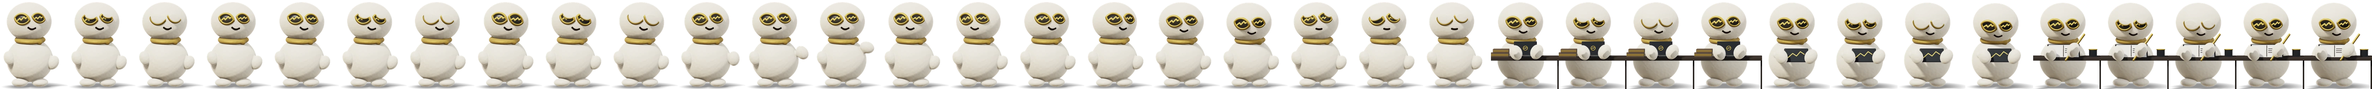
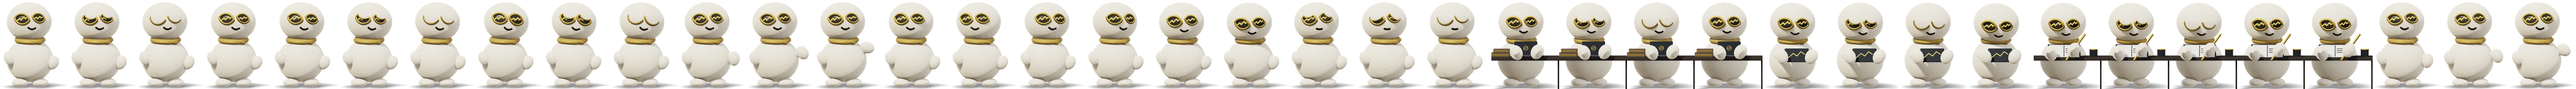
Scout: the wave is a wave, not a twitch
The owner said Milo twitched instead of waving. The arm had three positions, 30, 65 and 100 degrees, and the
wave cut straight between them: 35 degrees in 60 ms, about 580 deg/s, which at the welcome size is the hand
jumping roughly 18 px across and 36 px up with nothing in between. cbc877bc made it quicker last month, and
with three frames quicker only means snappier.

Measured before changing anything, so the fix went where the problem was: the frame percentages were all
correct, the scarf moves 0.23 CSS px per step on average (sub-pixel, not the culprit), and the figure element
is stable rather than being re-created mid-gesture.

arm-a, arm-b and arm-c are rendered in between, at 15, 47 and 82 degrees, taking the sheet to 38 frames. The
wave now climbs through all six positions and comes back down the same way: 15 steps over 931 ms, at most
360 deg/s, each step about 17 degrees. ack and point get the same treatment.

The new test pins the property, not the timings: no step may move the arm more than 20 degrees or faster than
400 deg/s, and no gesture may end with the arm still up.

Frame count updated in the renderer, frames.json, scout.js and both stylesheets (3800%, and 2.7027% per frame
in the blink keyframe).

Full suite 8262 passed, 1 skipped.

diff --git a/static/v2/css/components.css b/static/v2/css/components.css
@@ -473,7 +473,7 @@ ul.plain { margin: 0; padding-left: 18px; } ul.plain li { margin-bottom: 7px; }
    its aspect ratio, so nothing moves when the sprite arrives. 2x and 3x sprites, chosen by the browser. */
 .scout { --scout-x: 0%; display: block; flex: none; position: relative; aspect-ratio: 288 / 380; }
 .scout::before, .scout::after { content: ""; position: absolute; inset: 0; background-repeat: no-repeat; background-position: 0 0; }
-.scout::after { background-size: 3500% 100%; background-position-x: var(--scout-x);
+.scout::after { background-size: 3800% 100%; background-position-x: var(--scout-x);
   background-image: url("/scout/scout-full@2x.webp");
   background-image: -webkit-image-set(url("/scout/scout-full@2x.webp") 2x, url("/scout/scout-full@3x.webp") 3x);
   background-image: image-set(url("/scout/scout-full@2x.webp") 2x, url("/scout/scout-full@3x.webp") 3x); }
@@ -495,15 +495,15 @@ ul.plain { margin: 0; padding-left: 18px; } ul.plain li { margin-bottom: 7px; }
 /* his head on the Ask Milo button, as on the classic one: the bust sprite clipped to a disc, blinking through the
    sprite's own lid frames twice in 11 s; still under reduced motion or with his motion set to Still */
 .scout-badge { position: relative; display: block; flex: none; width: 22px; height: 22px; border-radius: 50%; overflow: hidden; }
-.scout-badge-fig { position: absolute; left: -1.8%; top: 7.8%; width: 126.4%; height: 136.9%; background-repeat: no-repeat; background-size: 3500% 100%; background-position: 0% 0;
+.scout-badge-fig { position: absolute; left: -1.8%; top: 7.8%; width: 126.4%; height: 136.9%; background-repeat: no-repeat; background-size: 3800% 100%; background-position: 0% 0;
   background-image: url("/scout/scout-compact@2x.webp");
   background-image: -webkit-image-set(url("/scout/scout-compact@2x.webp") 2x, url("/scout/scout-compact@3x.webp") 3x);
   background-image: image-set(url("/scout/scout-compact@2x.webp") 2x, url("/scout/scout-compact@3x.webp") 3x);
   animation: scout-badge-blink 11s step-end infinite; }
 @keyframes scout-badge-blink {
-  0% { background-position-x: 0%; } 36% { background-position-x: 2.9412%; } 36.32% { background-position-x: 5.8824%; } 36.77% { background-position-x: 2.9412%; } 37.13% { background-position-x: 0%; }
-  93% { background-position-x: 2.9412%; } 93.32% { background-position-x: 5.8824%; } 93.77% { background-position-x: 2.9412%; } 94.13% { background-position-x: 0%; }
-  95.22% { background-position-x: 2.9412%; } 95.54% { background-position-x: 5.8824%; } 95.99% { background-position-x: 2.9412%; } 96.35% { background-position-x: 0%; } 100% { background-position-x: 0%; } }
+  0% { background-position-x: 0%; } 36% { background-position-x: 2.7027%; } 36.32% { background-position-x: 5.4054%; } 36.77% { background-position-x: 2.7027%; } 37.13% { background-position-x: 0%; }
+  93% { background-position-x: 2.7027%; } 93.32% { background-position-x: 5.4054%; } 93.77% { background-position-x: 2.7027%; } 94.13% { background-position-x: 0%; }
+  95.22% { background-position-x: 2.7027%; } 95.54% { background-position-x: 5.4054%; } 95.99% { background-position-x: 2.7027%; } 96.35% { background-position-x: 0%; } 100% { background-position-x: 0%; } }
 :root[data-scout-motion="still"] .scout-badge-fig, :root[data-motion="reduce"] .scout-badge-fig { animation: none; }
 @media (prefers-reduced-motion: reduce) { .scout-badge-fig { animation: none; } }
 /* the welcome: the whole figure above the question, a button that opens his guide menu (no fill, no hover pill;

diff --git a/static/components/scout.js b/static/components/scout.js
@@ -64,8 +64,10 @@
     'desk': 22, 'desk-half': 23, 'desk-closed': 24, 'desk-type': 25,
     'tablet': 26, 'tablet-half': 27, 'tablet-closed': 28, 'tablet-near': 29,
     'write': 30, 'write-half': 31, 'write-closed': 32, 'write-1': 33, 'write-2': 34,
+    /* In-between arm positions, so the wave is a wave: see GESTURE below. */
+    'arm-a': 35, 'arm-b': 36, 'arm-c': 37,
   };
-  var COUNT = 35;
+  var COUNT = 38;
 
   /* How far over the head is, so a change of pose walks through the frames
    * in between instead of jumping: upright, leaning, tilted, curious. */
@@ -95,17 +97,27 @@
   };
   var WORK = { desk: 1, tablet: 1, write: 1 };
 
-  /* Gestures, as [frame, ms]. Short on purpose. */
+  /* Gestures, as [frame, ms].
+   *
+   * The arm has seven positions, not three: arm-a, arm-1, arm-b, arm-2, arm-c, arm-3 climb 15, 30, 47, 65,
+   * 82 and 100 degrees from the shoulder. Until 2026-11-03 the wave used only arm-1, arm-2 and arm-3 and cut
+   * between them, so the hand crossed 35 degrees in 60 ms, about 580 deg/s, and at the welcome size it
+   * jumped roughly 18 px across and 36 px up with nothing in between. It read as a twitch, which is what the
+   * owner called it. Every step is now about 17 degrees over 50 ms, near 300 deg/s, which is where a wave
+   * actually sits. */
   var GESTURE = {
-    wave: [['arm-1', 60], ['arm-2', 60], ['arm-3', 130], ['arm-2', 80], ['arm-3', 130],
-      ['arm-2', 75], ['arm-1', 60]],
-    ack: [['arm-1', 55], ['arm-2', 105], ['arm-1', 55]],
+    wave: [['arm-a', 50], ['arm-1', 50], ['arm-b', 52], ['arm-2', 52], ['arm-c', 55], ['arm-3', 120],
+      ['arm-c', 60], ['arm-2', 70], ['arm-c', 60], ['arm-3', 110],
+      ['arm-c', 55], ['arm-2', 52], ['arm-b', 50], ['arm-1', 50], ['arm-a', 45]],
+    ack: [['arm-a', 50], ['arm-1', 52], ['arm-b', 55], ['arm-2', 110], ['arm-b', 55], ['arm-1', 52],
+      ['arm-a', 48]],
     nod: [['nod-1', 90], ['nod-2', 170], ['nod-1', 90]],
     look: [['look-l1', 120], ['look-l2', 520], ['look-l1', 110], ['lean', 90],
       ['look-r1', 120], ['look-r2', 520], ['look-r1', 110], ['lean', 90]],
     curious: [['curious', 1300], ['curious-half', 40], ['curious-closed', 50],
       ['curious-half', 40], ['curious', 280]],
-    point: [['arm-1', 80], ['arm-2', 950], ['arm-1', 80]],
+    point: [['arm-a', 50], ['arm-1', 52], ['arm-b', 55], ['arm-2', 900], ['arm-b', 55], ['arm-1', 52],
+      ['arm-a', 48]],
     bob: [['lean', 260]],
     /* The small motion each worked pose loops on: hands moving over the keys,
      * a look down at the tablet, the pencil travelling across the page. */

diff --git a/static/styles.css b/static/styles.css
@@ -19677,7 +19677,7 @@ footer.legal > .legal-full {
   background-position: 0 0;
 }
 .scout::after {
-  background-size: 3500% 100%;
+  background-size: 3800% 100%;
   background-position-x: var(--scout-x);
   background-image: url("scout/scout-full@2x.webp");
   background-image: -webkit-image-set(url("scout/scout-full@2x.webp") 2x, url("scout/scout-full@3x.webp") 3x);
@@ -19735,7 +19735,7 @@ footer.legal > .legal-full {
   width: 126.4%;
   height: 136.9%;
   background-repeat: no-repeat;
-  background-size: 3500% 100%;
+  background-size: 3800% 100%;
   background-position: 0% 0;
   background-image: url("scout/scout-compact@2x.webp");
   background-image: -webkit-image-set(url("scout/scout-compact@2x.webp") 2x, url("scout/scout-compact@3x.webp") 3x);
@@ -19745,17 +19745,17 @@ footer.legal > .legal-full {
 /* 1% of 11 s is 110 ms: half 35 ms, closed 50 ms, half 40 ms. */
 @keyframes scout-badge-blink {
   0%      { background-position-x: 0%; }
-  36%     { background-position-x: 2.9412%; }
-  36.32%  { background-position-x: 5.8824%; }
-  36.77%  { background-position-x: 2.9412%; }
+  36%     { background-position-x: 2.7027%; }
+  36.32%  { background-position-x: 5.4054%; }
+  36.77%  { background-position-x: 2.7027%; }
   37.13%  { background-position-x: 0%; }
-  93%     { background-position-x: 2.9412%; }
-  93.32%  { background-position-x: 5.8824%; }
-  93.77%  { background-position-x: 2.9412%; }
+  93%     { background-position-x: 2.7027%; }
+  93.32%  { background-position-x: 5.4054%; }
+  93.77%  { background-position-x: 2.7027%; }
   94.13%  { background-position-x: 0%; }
-  95.22%  { background-position-x: 2.9412%; }
-  95.54%  { background-position-x: 5.8824%; }
-  95.99%  { background-position-x: 2.9412%; }
+  95.22%  { background-position-x: 2.7027%; }
+  95.54%  { background-position-x: 5.4054%; }
+  95.99%  { background-position-x: 2.7027%; }
   96.35%  { background-position-x: 0%; }
   100%    { background-position-x: 0%; }
 }

diff --git a/tests/test_pulse_scout.py b/tests/test_pulse_scout.py
@@ -292,3 +292,29 @@ def test_he_blinks_and_waves_more_often():
     assert "var WAVE_GAP_MS = 20000;" in SCOUT
     assert "full && self.state === 'idle' && self.slot === 'welcome'" in sched
     assert "self.gesture('wave');" in sched
+
+
+def test_the_wave_is_a_wave_and_not_a_twitch():
+    """The owner called it a twitch (2026-11-03), and it was: the arm had three positions, 30, 65 and 100
+    degrees, and the wave cut between them, crossing 35 degrees in 60 ms. At the welcome size the hand jumped
+    about 18 px across and 36 px up with nothing in between. The in-between frames arm-a, arm-b and arm-c
+    halve every step. This pins the property, not the exact numbers: no single step may move the arm more
+    than 20 degrees, and none may do it faster than 400 deg/s."""
+    angle = {"arm-a": 15, "arm-1": 30, "arm-b": 47, "arm-2": 65, "arm-c": 82, "arm-3": 100}
+    for name in angle:
+        assert name in FRAMES, name
+    table = SCOUT[SCOUT.index("var GESTURE = {"):SCOUT.index("var GESTURE_FROM")]
+    for gesture in ("wave", "ack", "point"):
+        body = table[table.index(gesture + ": ["):]
+        body = body[:body.index("]],") + 2]
+        steps = re.findall(r"\['([a-z0-9-]+)', (\d+)\]", body)
+        assert steps, gesture
+        at = 0
+        for frame, ms in steps:
+            assert frame in angle, (gesture, frame)   # every gesture frame is one of the arm's positions
+            move, ms = abs(angle[frame] - at), int(ms)
+            assert move <= 20, "%s: %s moves the arm %d degrees in one cut" % (gesture, frame, move)
+            assert move / ms * 1000 <= 400, "%s: %s travels %.0f deg/s" % (gesture, frame, move / ms * 1000)
+            at = angle[frame]
+        # and it comes back down rather than snapping home from the top
+        assert angle[steps[-1][0]] <= 20, "%s ends with the arm still up" % gesture

diff --git a/optic-brand/scout/render_scout.py b/optic-brand/scout/render_scout.py
@@ -702,6 +702,10 @@ FRAMES = [
     ("write-closed", dict(prop="write", tilt=2, pitch=15, cl=1.0, cr=1.0)),
     ("write-1", dict(prop="write", tilt=2, pitch=15, pen=0.5)),
     ("write-2", dict(prop="write", tilt=2, pitch=15, pen=1.0)),
+    # In-between arm positions, added 2026-11-03. The wave had only arm-1, arm-2 and arm-3 (30, 65 and 100
+    # degrees) and cut between them, so the hand jumped 35 degrees at a time, about 580 deg/s at the fast
+    # steps: it read as a twitch rather than a wave. These halve every step.
+    ("arm-a", dict(wave=15)), ("arm-b", dict(wave=47)), ("arm-c", dict(wave=82)),
 ]
 # (window in world units, size at 3x). The 2x sprite is the 3x one resampled,
 # never an upscale: the largest use is the welcome figure at 96 CSS px wide.

diff --git a/docs/milo/MILO_ANIMATION_CHANGELOG.md b/docs/milo/MILO_ANIMATION_CHANGELOG.md
@@ -1,5 +1,32 @@
 # Milo animation changelog
 
+## 2026-11-03 (third pass) — the wave is a wave
+
+The owner said Milo twitched instead of waving. He was right, and it was not the new work: the arm had three
+positions (`arm-1`, `arm-2`, `arm-3`, at 30, 65 and 100 degrees) and the wave cut straight between them,
+crossing 35 degrees in 60 ms, about 580 deg/s. At the welcome size the hand jumped roughly 18 px across and
+36 px up with nothing in between. `cbc877bc` (2026-10-11, "a quicker wave and blink") had shortened it, and
+with only three frames quicker just means snappier.
+
+Ruled out first, by measurement rather than by eye: the sprite positioning (every frame percentage was
+correct), the scarf (its 12 phases move the tail 0.23 CSS px per step on average, max 0.43, which is
+sub-pixel), and element churn (one figure element, stable across nine seconds).
+
+Three in-between frames were rendered, `arm-a`, `arm-b` and `arm-c` at 15, 47 and 82 degrees, taking the
+sheet to 38. `wave`, `ack` and `point` now climb through all six positions and come back down the same way:
+
+| | Before | After |
+| --- | --- | --- |
+| wave | 7 cuts, 595 ms, up to 583 deg/s | 15 steps, 931 ms, at most 360 deg/s |
+| ack | 3 cuts, 215 ms | 7 steps, 422 ms |
+| point | 3 cuts, 1110 ms | 7 steps, 1212 ms |
+
+`tests/test_pulse_scout.py::test_the_wave_is_a_wave_and_not_a_twitch` pins the property rather than the
+numbers: no step may move the arm more than 20 degrees or faster than 400 deg/s, and no gesture may end with
+the arm still up. Quickening it back into a twitch now fails the suite.
+
+Full suite 8262 passed, 1 skipped.
+
 ## 2026-11-03 (second pass) — the three worked poses, rendered
 
 Commit `8f1e06bb`.
@@ -8,7 +35,7 @@ The placeholders are gone. Researching, Analyzing and Writing are now frames of 
 
 Thirteen frames were added to the sprite sheet: `desk`, `desk-half`, `desk-closed`, `desk-type`, `tablet`,
 `tablet-half`, `tablet-closed`, `tablet-near`, `write`, `write-half`, `write-closed`, `write-1`, `write-2`.
-The sheet went from 22 frames to 35.
+The sheet went from 22 frames to 35, and to 38 with the wave frames below.
 
 | File | What |
 | --- | --- |
@@ -16,7 +43,7 @@ The sheet went from 22 frames to 35.
 | `static/scout/*.webp`, `frames.json` | re-rendered, 35 frames each |
 | `static/components/scout.js` | the new names in `FRAME`, `COUNT` 35, `FACE` entries so blinks work in every pose, `POSE` gains `researching`/`analyzing`/`writing`, the `type`/`read`/`pen` loops, and `pose()` keeps a worked pose at Still motion |
 | `static/v2/js/ui/milo-activity.js` | the three states point at the new poses and carry no drawn prop; the desk, tablet and notebook SVGs removed |
-| `static/v2/css/components.css` | `background-size: 3500%`, the blink keyframe step, the card figure 78 -> 104 px, the removed props' rules gone |
+| `static/v2/css/components.css` | `background-size: 3800%`, the blink keyframe step, the card figure 78 -> 104 px, the removed props' rules gone |
 | `static/styles.css` | the same two sprite figures, for the classic app |
 | `tests/test_milo_activity.py` | the props test became a check that what he works with is rendered and not drawn, plus the pose/frame contract |
 

diff --git a/docs/milo/MILO_CHARACTER_DESIGN.md b/docs/milo/MILO_CHARACTER_DESIGN.md
@@ -11,7 +11,7 @@ never be: every picture of him comes from the same rendered sprite sheets.
 | Piece | Path | What it is |
 | --- | --- | --- |
 | Driver | `static/components/scout.js` | `window.OpticScout`: poses, gestures, blinks, motion setting, sprite positioning |
-| Sheets | `static/scout/scout-{full,compact}@{2,3}x.webp` | 35 frames across one row, plus `-tail` sheets |
+| Sheets | `static/scout/scout-{full,compact}@{2,3}x.webp` | 38 frames across one row, plus `-tail` sheets |
 | Frame map | `static/scout/frames.json` | frame order and the per-frame pixel size of each sheet |
 | Renderer | `optic-brand/scout/render_scout.py` | the numpy SDF raymarcher the sheets are rendered from |
 | Loaded by | `static/v2/index.html:38` | a plain script tag, before the app |
@@ -22,7 +22,7 @@ chart symbol, gold scarf, small smile, soft 3D shading, minimal face. Optic blac
 Per-frame size: full `288x380` at 3x (`192x253` at 2x), compact `144x156` at 3x (`96x104` at 2x). 22 frames,
 one row, positioned with `--scout-x`.
 
-### The 35 frames
+### The 38 frames
 
 Standing, as they always were: `idle`, `idle-half`, `idle-closed`, `lean`, `tilt`, `tilt-half`,
 `tilt-closed`, `curious`, `curious-half`, `curious-closed`, `arm-1`, `arm-2`, `arm-3`, `look-l1`, `look-l2`,
@@ -31,6 +31,12 @@ Standing, as they always were: `idle`, `idle-half`, `idle-closed`, `lean`, `tilt
 Added 2026-11-03 for the activity states, appended and never inserted: `desk`, `desk-half`, `desk-closed`,
 `desk-type`, `tablet`, `tablet-half`, `tablet-closed`, `tablet-near`, `write`, `write-half`, `write-closed`,
 `write-1`, `write-2`.
+
+Added the same day, after the owner said the wave read as a twitch: `arm-a`, `arm-b`, `arm-c`, the in-between
+arm positions at 15, 47 and 82 degrees. With only `arm-1`, `arm-2` and `arm-3` the wave crossed 35 degrees in
+60 ms (about 580 deg/s) with nothing between, and the hand jumped roughly 18 px across and 36 px up at the
+welcome size. Every step is now about 17 degrees over 50 ms, near 300 deg/s. The `wave`, `ack` and `point`
+gestures in `scout.js` all use them.
 
 Each resting pose carries its own half-closed and closed lid, so a blink never changes the pose it happens
 in, and the three new ones are no exception. A pose change walks the ladder `idle -> lean -> tilt -> curious`
@@ -97,7 +103,7 @@ Three things had to be true and are checked in the renders:
 Follow the same path. Add frames to the **end** of `FRAMES` in `render_scout.py`, give the resting pose its
 own `-half` and `-closed` lids, add the names to `FRAME` in `scout.js` with their indices, raise `COUNT`, add
 a `FACE` entry, add a `POSE` name, and leave `LEVEL` alone so the change is a cut. Then re-render, and update
-the two places in CSS that carry the frame count: `background-size: 3500% 100%` (in `static/styles.css` and
+the two places in CSS that carry the frame count: `background-size: 3800% 100%` (in `static/styles.css` and
 `static/v2/css/components.css`) and the per-frame step in `@keyframes scout-badge-blink`, which is
 `100 / (frames - 1)` per frame. `tests/test_pulse_scout.py` checks all of that against `frames.json`.
 

diff --git a/docs/milo/MILO_VISUAL_QA.md b/docs/milo/MILO_VISUAL_QA.md
@@ -84,7 +84,7 @@ are now rendered frames of the character himself. Re-checked after the render:
 
 | Check | Result |
 | --- | --- |
-| The sheet | 35 frames, `scout-full@3x.webp` 10080 x 380 and `scout-compact@3x.webp` 5040 x 156, both exactly `frame x 35` |
+| The sheet | 38 frames, `scout-full@3x.webp` 10944 x 380 and `scout-compact@3x.webp` 5472 x 156, both exactly `frame x 38` |
 | The standing frames | unchanged: `props()` builds nothing for a pose with no prop, so those 22 march the scene they always did |
 | Researching | card at a 560 px panel: frame `desk`, no drawn prop, Milo at the table with the laptop, its gold aperture and the two books |
 | Analyzing | frame `tablet`, the gold chart on the glass, the two ticks naming the lookups that returned |
@@ -95,7 +95,7 @@ are now rendered frames of the character himself. Re-checked after the render:
 | At the inline size | all three worked busts were rendered down to 34 px and inspected: the laptop, the tablet's gold chart and the notebook with its pencil each stay legible and distinct |
 | Still motion | `OpticScout.setMotion('still')` holds frame `desk` and the heading Researching: the pose stays, only the movement goes |
 | Reduce motion | with `data-motion="reduce"`, zero elements in the card report an `animation-name` |
-| CSS frame count | `background-size: 3500% 100%` live in the panel, `frames.json` 35: the two agree, which is what the clipped figure in the first reload was about |
+| CSS frame count | `background-size: 3800% 100%` live in the panel, `frames.json` 38: the two agree, which is what the clipped figure in the first reload was about |
 | Console | no errors |
 | Rebase | rebased onto `origin/main` `5bcf5972` before shipping; no file overlapped that commit, so nothing was resolved by hand |
 
